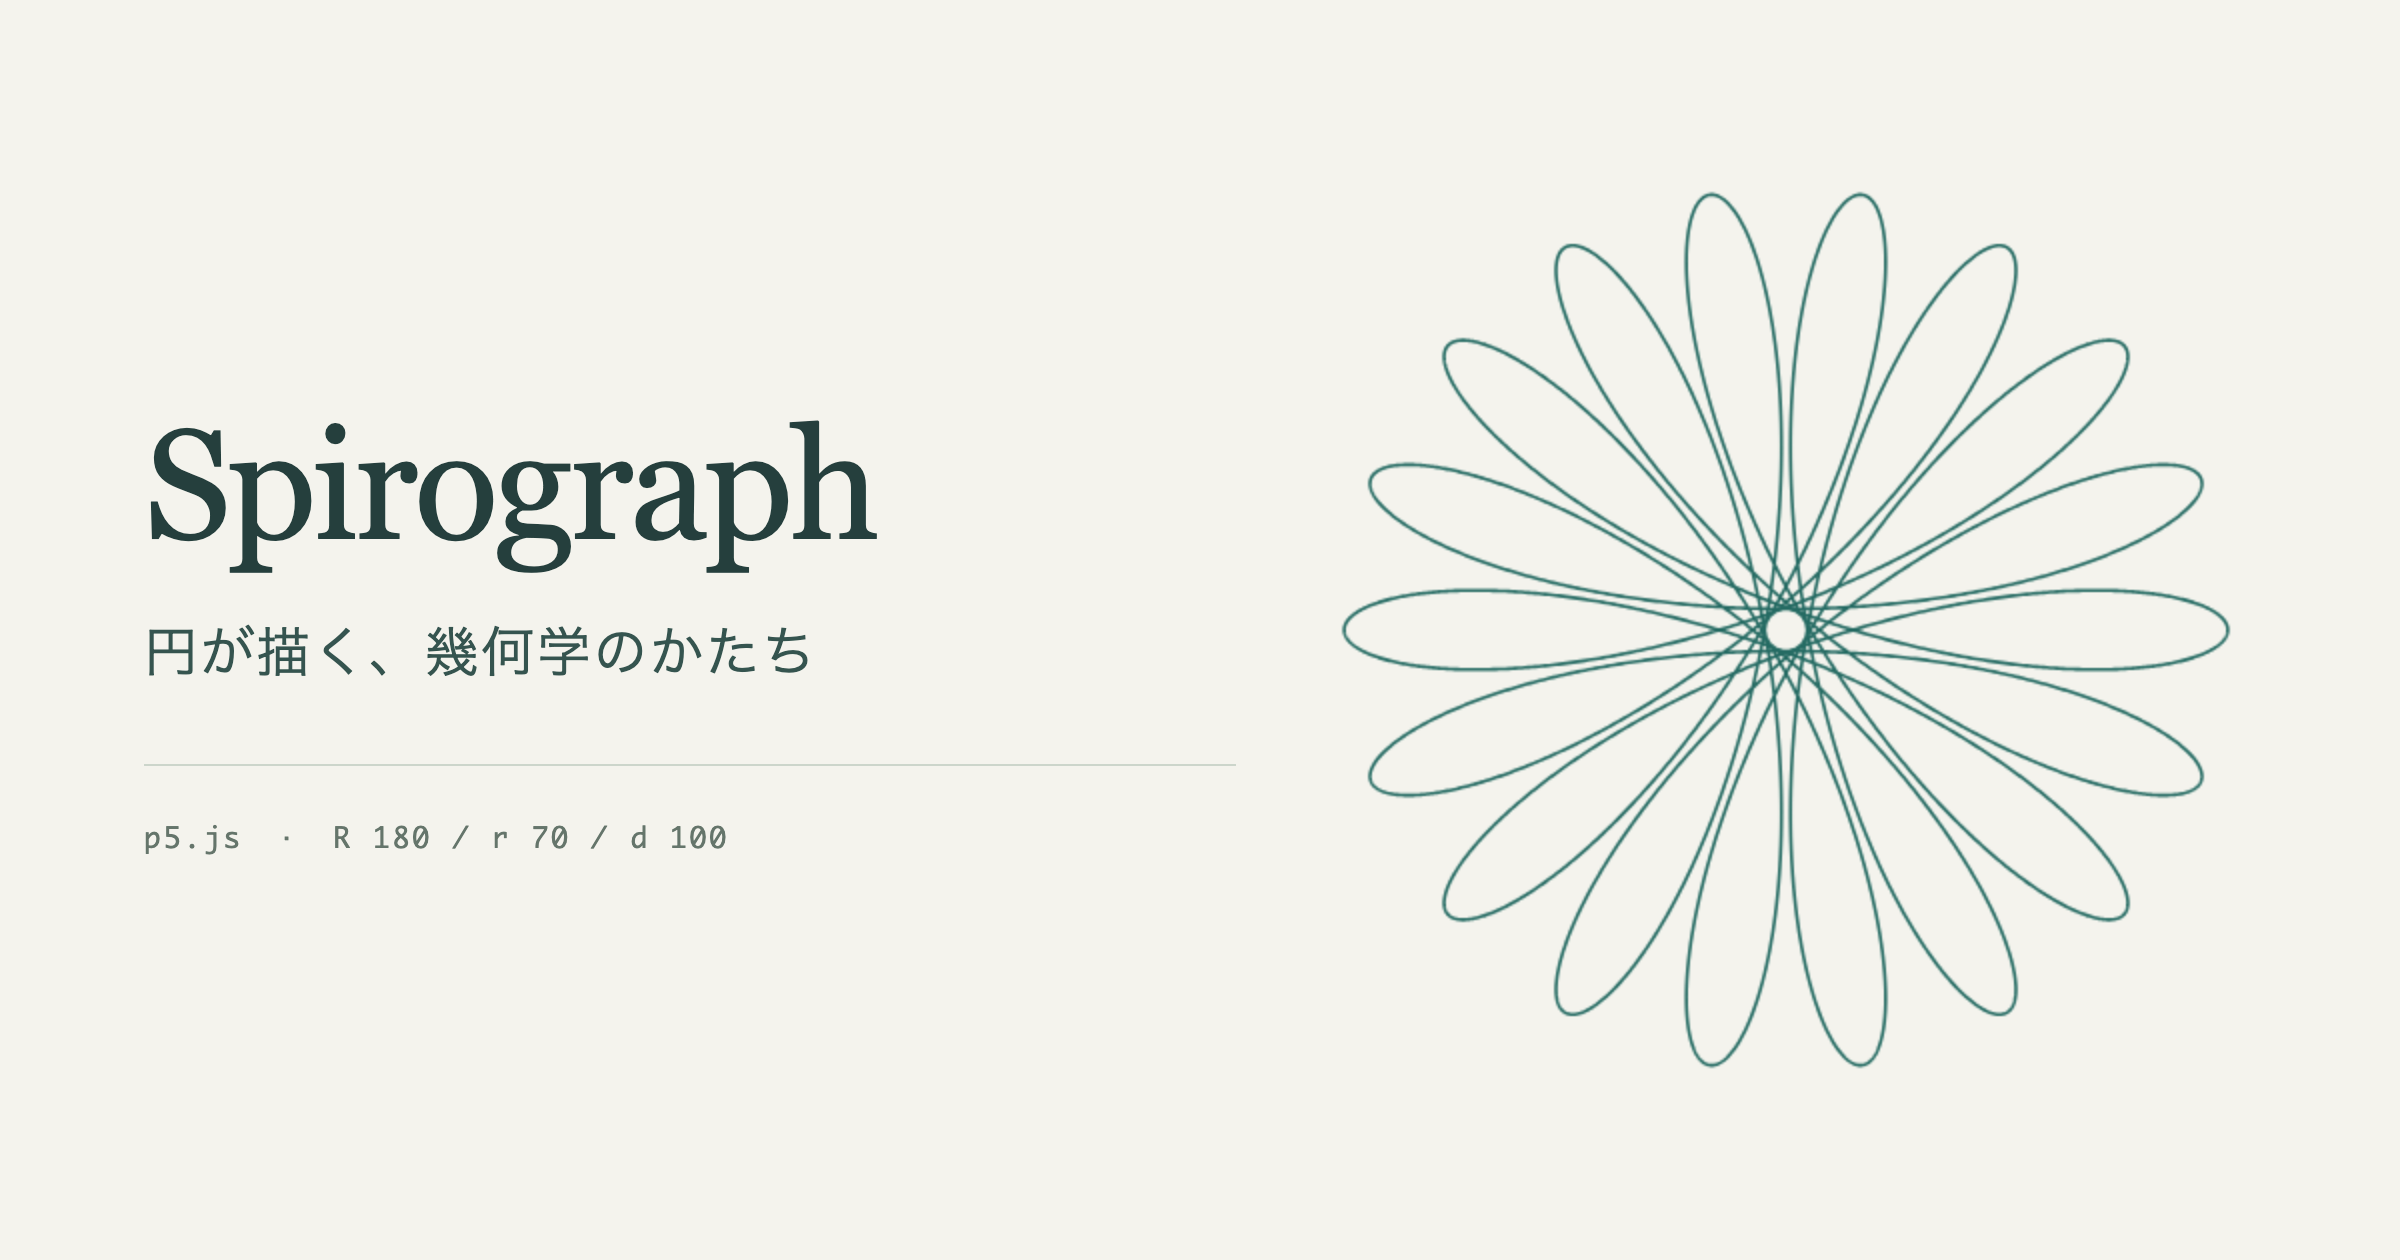
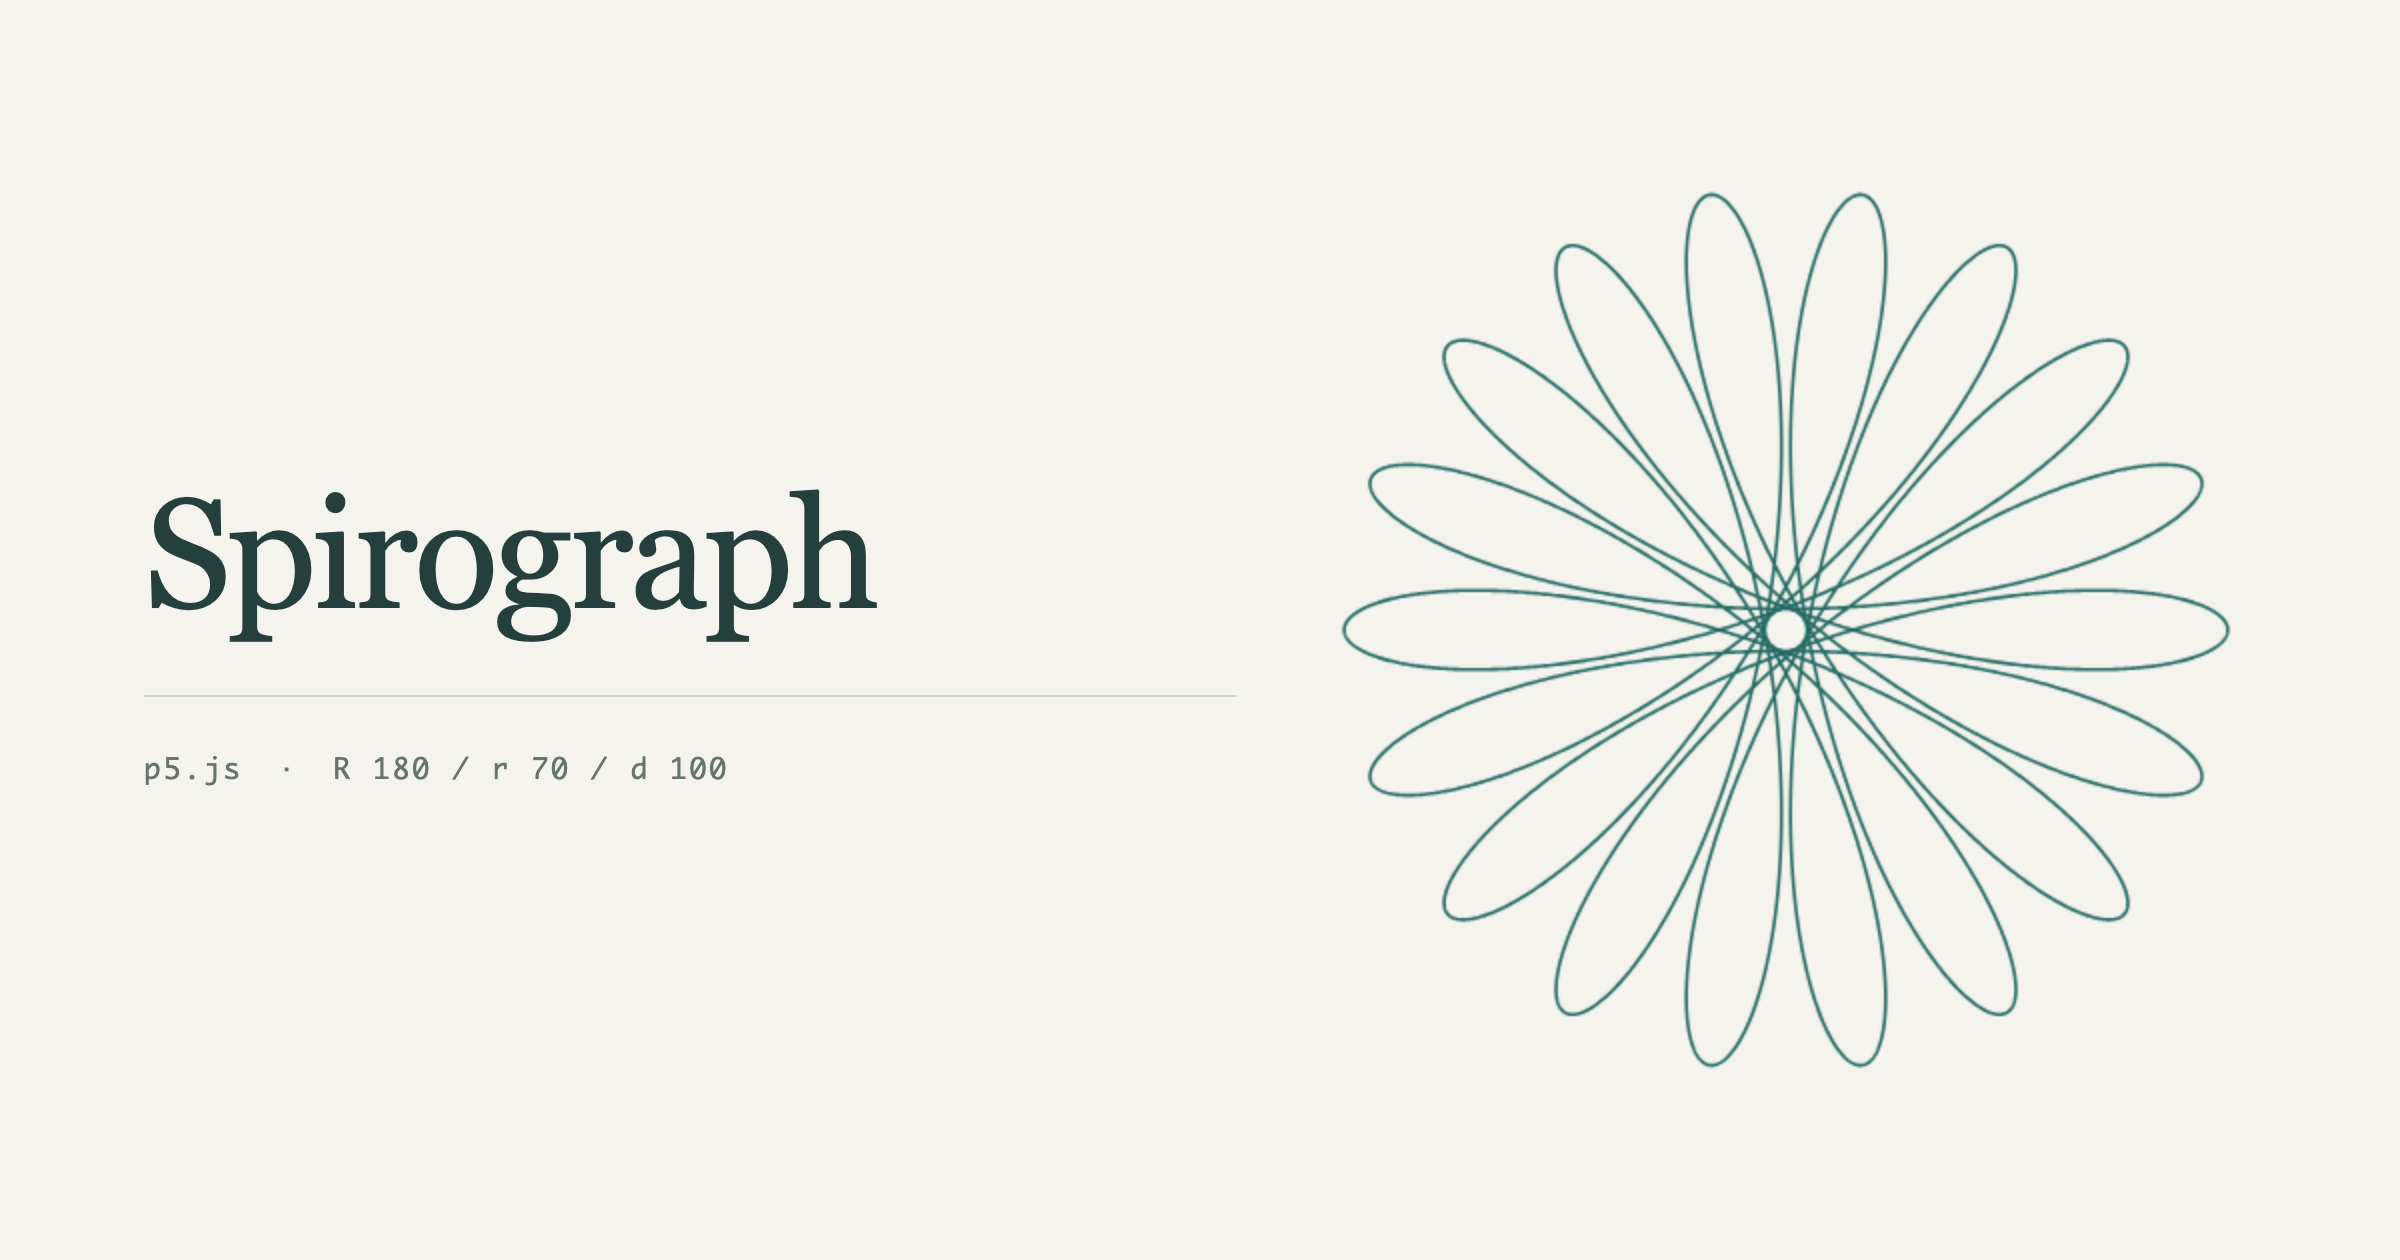
キャッチコピー的な文言とフッターを削除
- ヘッダーのタグライン、「EXPLORE THE CURVE」「THE DRAWING」「LIVE PREVIEW」
  などの装飾的なラベルと、詩的なキャプション・見出しを削除
- フッターを削除（整数入力の注記は各入力のヒントとエラー文で足りる）
- 説明文を、仕組みと操作を述べる一文にまとめる
- ワードマークをh1にして、見出しの重複を解消
- title・OGP・カード画像からもタグラインを外す

diff --git a/index.html b/index.html
@@ -4,19 +4,19 @@
     <meta charset="UTF-8">
     <meta name="viewport" content="width=device-width, initial-scale=1">
     <meta name="theme-color" content="#f4f3ed">
-    <title>Spirograph — 円が描く、幾何学のかたち</title>
-    <meta name="description" content="固定円の半径R、回転円の半径r、ペンの距離dを変えると、ペンの軌跡が即座に描き変わります。p5.jsによるスピログラフの作例。">
+    <title>スピログラフ（p5.js）</title>
+    <meta name="description" content="固定円の内側を転がる円にペンを取り付けたときの軌跡。R・r・dの3つの数値を変えると、図形がその場で描き変わります。">
     <link rel="canonical" href="https://kagari-tech.github.io/p5-spirograph/">
     <meta property="og:type" content="website">
     <meta property="og:site_name" content="kagari.tech">
     <meta property="og:locale" content="ja_JP">
-    <meta property="og:title" content="Spirograph — 円が描く、幾何学のかたち">
-    <meta property="og:description" content="固定円の半径R、回転円の半径r、ペンの距離dを変えると、ペンの軌跡が即座に描き変わります。p5.jsによるスピログラフの作例。">
+    <meta property="og:title" content="スピログラフ（p5.js）">
+    <meta property="og:description" content="固定円の内側を転がる円にペンを取り付けたときの軌跡。R・r・dの3つの数値を変えると、図形がその場で描き変わります。">
     <meta property="og:url" content="https://kagari-tech.github.io/p5-spirograph/">
     <meta property="og:image" content="https://kagari-tech.github.io/p5-spirograph/ogp.png">
     <meta property="og:image:width" content="2400">
     <meta property="og:image:height" content="1260">
-    <meta property="og:image:alt" content="スピログラフの曲線と、Spirographのタイトル">
+    <meta property="og:image:alt" content="R 180 / r 70 / d 100 のスピログラフ">
     <meta name="twitter:card" content="summary_large_image">
     <link rel="stylesheet" href="index.css">
     <script defer src="https://cdn.jsdelivr.net/npm/p5@2.3.3/lib/p5.min.js"
@@ -27,25 +27,20 @@
   <body>
     <main>
       <header class="page-header">
-        <a class="wordmark" href="index.html">Spirograph<span> / p5.js</span></a>
-        <div class="header-meta">
-          <span class="eyebrow">円が描く、幾何学のかたち</span>
-          <nav class="site-links">
-            <a href="https://github.com/kagari-tech/p5-spirograph" target="_blank" rel="noopener" aria-label="GitHubでソースコードを見る（新しいタブで開く）">
-              <img src="https://cdn.jsdelivr.net/npm/lucide-static@0.544.0/icons/github.svg" alt="" width="14" height="14" loading="lazy" decoding="async">GitHub
-            </a>
-            <a href="https://kagari.tech" target="_blank" rel="noopener" aria-label="kagari.techのサイトを開く（新しいタブで開く）">
-              <img src="https://cdn.jsdelivr.net/npm/lucide-static@0.544.0/icons/globe.svg" alt="" width="14" height="14" loading="lazy" decoding="async">kagari.tech
-            </a>
-          </nav>
-        </div>
+        <h1 class="wordmark">Spirograph<span> / p5.js</span></h1>
+        <nav class="site-links">
+          <a href="https://github.com/kagari-tech/p5-spirograph" target="_blank" rel="noopener" aria-label="GitHubでソースコードを見る（新しいタブで開く）">
+            <img src="https://cdn.jsdelivr.net/npm/lucide-static@0.544.0/icons/github.svg" alt="" width="14" height="14" loading="lazy" decoding="async">GitHub
+          </a>
+          <a href="https://kagari.tech" target="_blank" rel="noopener" aria-label="kagari.techのサイトを開く（新しいタブで開く）">
+            <img src="https://cdn.jsdelivr.net/npm/lucide-static@0.544.0/icons/globe.svg" alt="" width="14" height="14" loading="lazy" decoding="async">kagari.tech
+          </a>
+        </nav>
       </header>
 
       <div class="workspace">
-        <section class="controls" aria-labelledby="controls-title">
-          <p class="eyebrow">EXPLORE THE CURVE</p>
-          <h1 id="controls-title">小さな変化から、<br>新しい模様を。</h1>
-          <p class="intro">円の内側で、もうひとつの円を転がす。<br>3つの数値で、ペンの軌跡が変わります。</p>
+        <section class="controls" aria-label="パラメータ">
+          <p class="intro">固定円の内側で、もうひとつの円を転がす。その円に取り付けたペンの軌跡が、図形になります。3つの数値を変えると、図形はその場で描き変わります。</p>
 
           <form id="parameters">
             <div class="parameter">
@@ -78,18 +73,15 @@
             <p id="input-error" class="error" role="status"></p>
             <button type="reset">初期値に戻す <span aria-hidden="true">↺</span></button>
           </form>
-          <p class="tip">数値を入力するか、スライダーを動かしてみてください。図形はすぐに描き変わります。</p>
         </section>
 
         <figure class="drawing">
-          <div class="drawing-header"><span class="eyebrow">THE DRAWING</span><span class="live-label">LIVE PREVIEW</span></div>
           <div id="canvas-container"></div>
           <p id="load-status" class="load-status" role="status">描画の準備中…</p>
           <noscript><p class="error">描画するには、ブラウザのJavaScriptを有効にしてください。</p></noscript>
-          <figcaption><span>円の運動がつくる、ひと続きの線。</span><span id="curve-info"></span></figcaption>
+          <figcaption><span id="curve-info"></span></figcaption>
         </figure>
       </div>
-      <footer>SPIROGRAPH STUDY <span>数値は整数で指定できます。図形は画面に収まる大きさで表示します。</span></footer>
     </main>
   </body>
 </html>

diff --git a/index.css b/index.css
@@ -11,19 +11,14 @@
 body { margin: 0; }
 main { max-width: 1240px; margin: auto; padding: 32px 40px 24px; }
 .page-header { display: flex; align-items: center; justify-content: space-between; padding-bottom: 24px; border-bottom: 1px solid #d8ddd5; }
-.wordmark { color: inherit; text-decoration: none; font-family: Georgia, serif; font-size: 30px; letter-spacing: -1px; }
+.wordmark { margin: 0; font-family: Georgia, serif; font-size: 30px; font-weight: 400; letter-spacing: -1px; }
 .wordmark span { margin-left: 8px; color: #6e7d73; font: 12px ui-monospace, monospace; letter-spacing: 0; }
-.eyebrow { color: #65756b; font-size: 11px; font-weight: 600; letter-spacing: 1.6px; }
-.header-meta { display: flex; align-items: center; gap: 22px; }
-.site-links { display: flex; gap: 18px; padding-left: 22px; border-left: 1px solid #d8ddd5; }
+.site-links { display: flex; gap: 18px; }
 .site-links a { display: flex; align-items: center; gap: 6px; color: #65756b; text-decoration: none; font: 11px ui-monospace, monospace; letter-spacing: .5px; }
 .site-links a:hover { color: #256b63; text-decoration: underline; text-underline-offset: 3px; }
 .site-links img { opacity: .7; }
 .workspace { display: grid; grid-template-columns: 310px minmax(0, 1fr); gap: 64px; align-items: start; padding: 38px 0; }
-.controls > .eyebrow { margin-top: 4px; }
-h1 { margin: 18px 0 16px; font-size: 29px; font-weight: 500; line-height: 1.6; letter-spacing: .03em; }
-.intro, .tip { color: #63716a; font-size: 12px; line-height: 1.9; }
-.intro { margin-bottom: 30px; }
+.intro { margin: 0 0 30px; color: #63716a; font-size: 12px; line-height: 1.9; }
 .parameter { margin-bottom: 24px; }
 .parameter-heading { display: flex; align-items: center; justify-content: space-between; gap: 12px; margin-bottom: 10px; }
 label { font-size: 13px; font-weight: 600; }
@@ -38,17 +33,12 @@ button { display: flex; justify-content: space-between; align-items: center; wid
 button:hover { background: #e7ece3; }
 button span { font-size: 19px; }
 :focus-visible { outline: 2px solid #256b63; outline-offset: 4px; }
-.tip { margin-top: 18px; }
 .drawing { position: relative; margin: 0; padding: 20px; border: 1px solid #d8ddd5; border-radius: 8px; background: #fcfcf8; }
-.drawing-header, figcaption { display: flex; align-items: center; justify-content: space-between; gap: 12px; }
-.live-label { display: flex; align-items: center; gap: 6px; color: #4d6e60; font: 9px ui-monospace, monospace; letter-spacing: 1px; }
-.live-label::before { content: ""; width: 5px; height: 5px; border-radius: 50%; background: #4f8470; }
-#canvas-container { width: 100%; aspect-ratio: 1; margin: 12px 0; }
+#canvas-container { width: 100%; aspect-ratio: 1; margin-bottom: 12px; }
 #canvas-container canvas { display: block; width: 100% !important; height: auto !important; }
 .load-status { padding: 12px; color: #a43e32; font-size: 13px; }
-figcaption { padding-top: 16px; border-top: 1px solid #e2e6dc; color: #65756b; font-size: 10px; line-height: 1.7; }
+figcaption { display: flex; justify-content: flex-end; padding-top: 16px; border-top: 1px solid #e2e6dc; color: #65756b; font-size: 10px; line-height: 1.7; }
 #curve-info { font-family: ui-monospace, monospace; white-space: nowrap; }
-footer { display: flex; justify-content: space-between; gap: 16px; padding-top: 20px; border-top: 1px solid #d8ddd5; color: #65756b; font-size: 10px; letter-spacing: .7px; }
 
 @media (max-width: 900px) {
   main { padding: 24px; }
@@ -59,10 +49,6 @@ footer { display: flex; justify-content: space-between; gap: 16px; padding-top: 
 @media (max-width: 680px) {
   main { padding: 20px 16px; }
   .page-header { flex-wrap: wrap; gap: 10px 16px; }
-  .header-meta .eyebrow { display: none; }
-  .site-links { padding-left: 0; border-left: 0; }
   .workspace { grid-template-columns: minmax(0, 1fr); gap: 28px; padding: 24px 0; }
   .drawing { grid-row: 1; padding: 14px; }
-  h1 { font-size: 26px; }
-  footer { flex-direction: column; gap: 8px; line-height: 1.8; }
 }
